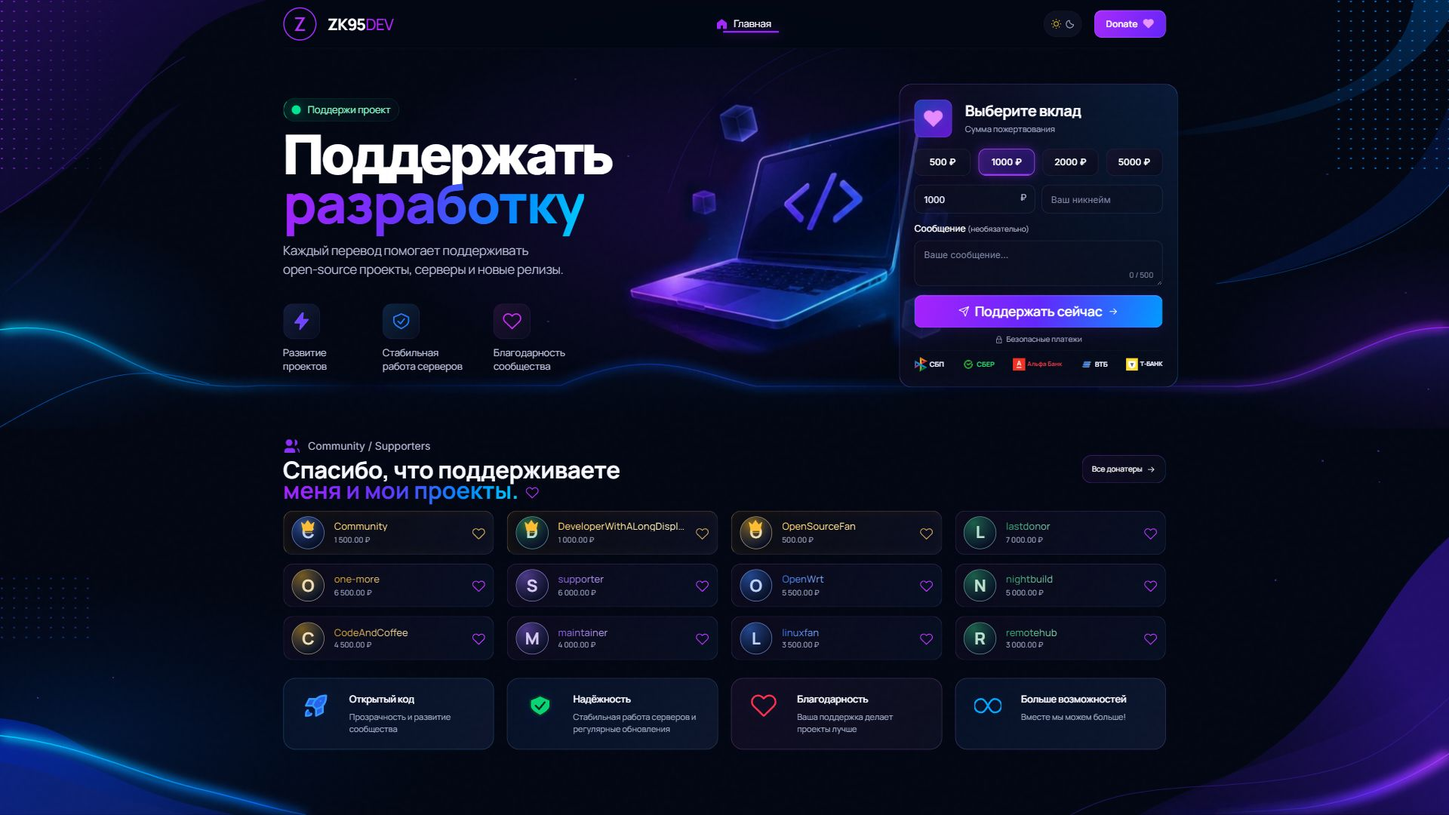
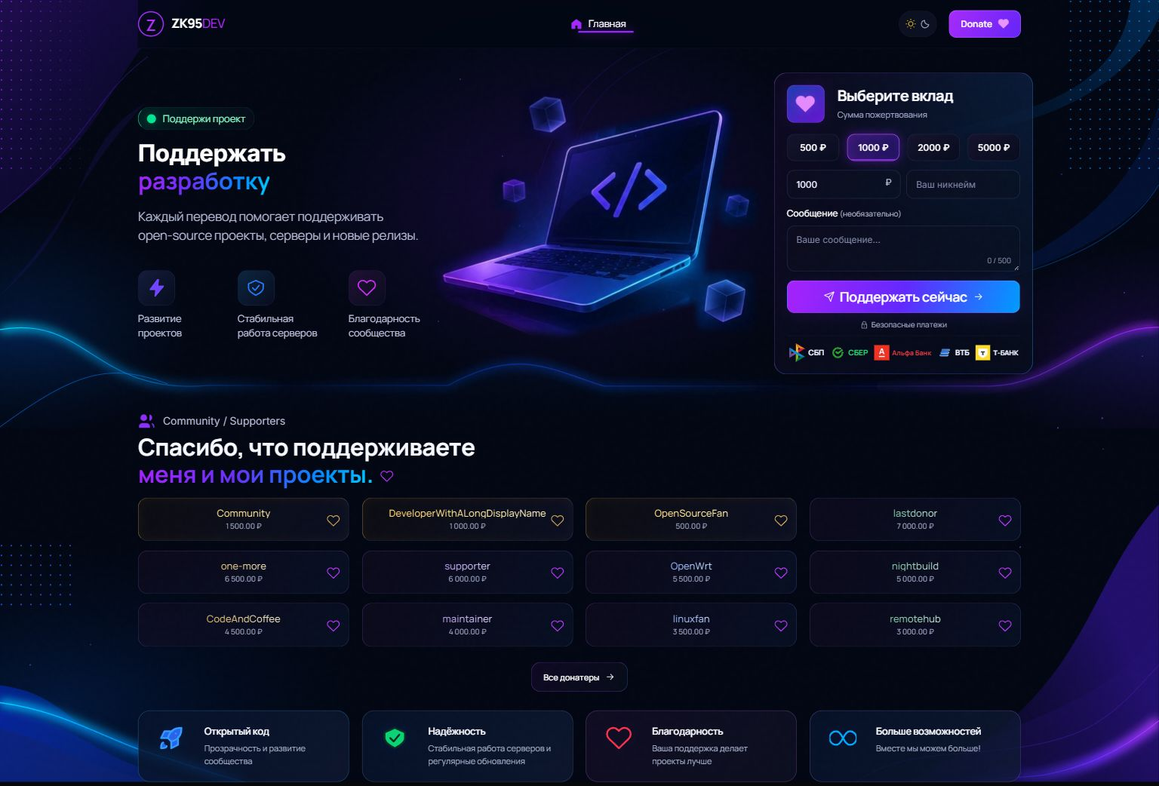
Compact Cyber headings and center expandable donor cards

diff --git a/static/css/cyber.css b/static/css/cyber.css
@@ -10,6 +10,7 @@ body.theme-cyber {
   --gold-bright: #bc72ff;
   --red-soft: #8b35ff16;
   --max: 1170px;
+  --cyber-heading-size: 31px;
   --cyber-gradient: linear-gradient(105deg, #a922ff, #6831fa 42%, #008eff 78%, #00cfff);
   font-family: Inter, Arial, sans-serif;
   font-size: 14px;
@@ -40,8 +41,8 @@ body.theme-cyber {
   transition: box-shadow .25s, background .25s;
 }
 .theme-cyber.is-scrolled .site-header { background: #030817f5; box-shadow: 0 10px 30px #0005; }
-.theme-cyber .brand { gap: 15px; font-size: 21px; font-weight: 700; letter-spacing: -.7px; color: #fff; }
-.theme-cyber .brand-mark { width: 44px; height: 44px; border: 2px solid #a62bff; background: transparent; color: #b52eff; font-size: 25px; font-weight: 600; box-shadow: none; }
+.theme-cyber .brand { gap: 10px; font-size: 17px; font-weight: 700; letter-spacing: -.5px; color: #fff; }
+.theme-cyber .brand-mark { width: 34px; height: 34px; border: 2px solid #a62bff; background: transparent; color: #b52eff; font-size: 21px; font-weight: 600; box-shadow: none; }
 .theme-cyber .brand-muted { color: #b225ff; font-weight: 500; }
 .theme-cyber .brand-period { display: none; }
 .theme-cyber .nav-links { display: flex; justify-content: center; gap: 43px; height: 100%; margin: 0; }
@@ -62,7 +63,7 @@ body.theme-cyber {
 .cyber-intro { position: relative; z-index: 2; width: 460px; max-width: 100%; }
 .cyber-badge { display: inline-flex; align-items: center; gap: 9px; height: 31px; padding: 0 11px; color: #82f8c2; border: 1px solid #18c78323; border-left-color: #00cc8d; border-radius: 18px; background: linear-gradient(110deg, #00ce861c, #0e1b2d30); font-size: 13px; }
 .cyber-badge i { width: 12px; height: 12px; border-radius: 50%; background: #00e491; box-shadow: 0 0 12px #00df8c60; }
-.theme-cyber .cyber-intro h1 { font-family: Inter, Arial, sans-serif; font-size: 72px !important; font-weight: 800; line-height: .88; letter-spacing: -3.5px; margin: 13px 0 17px; color: #fff; }
+.theme-cyber .cyber-intro h1 { font-family: Inter, Arial, sans-serif; font-size: var(--cyber-heading-size) !important; font-weight: 700; line-height: 1.15; letter-spacing: -.3px; margin: 13px 0 17px; color: #fff; }
 .theme-cyber h1 em, .theme-cyber h2 em { color: #9d30ff; background: var(--cyber-gradient); background-clip: text; -webkit-background-clip: text; -webkit-text-fill-color: transparent; font-style: normal; }
 .cyber-lead { color: #b3b8d3; font-size: 17px; font-weight: 400; line-height: 1.45; margin: 0; letter-spacing: -.3px; }
 .cyber-benefits { display: grid; grid-template-columns: 120px 135px 135px; gap: 12px; list-style: none; padding: 0; margin: 34px 0 0; }
@@ -103,10 +104,10 @@ body.theme-cyber {
 .theme-cyber .cyber-donate .cyber-pay:active { transform: scale(.985); }
 .theme-cyber .cyber-donate .cyber-pay.is-loading svg:first-child { animation: cyber-spinner 1s linear infinite; }
 .cyber-secure { display: flex; align-items: center; justify-content: center; gap: 4px; color: #a6acca; font-size: 10px; margin: 8px 0 6px; }
-.cyber-bank-logos { display: flex; justify-content: space-between; align-items: center; gap: 5px; border-top: 1px solid #6383bd14; padding-top: 8px; }
-.cyber-bank-logos>span { display: inline-flex; align-items: center; gap: 3px; white-space: nowrap; font-size: 9px; font-weight: 700; color: #edf0ff; }
+.cyber-bank-logos { display: flex; flex-wrap: wrap; justify-content: center; align-items: center; gap: 8px; border-top: 1px solid #6383bd14; padding-top: 10px; }
+.cyber-bank-logos>span { display: inline-flex; align-items: center; gap: 4px; white-space: nowrap; font-size: 10px; font-weight: 700; color: #edf0ff; }
 .cyber-bank-logos img { object-fit: contain; flex-shrink: 0; }
-.cyber-bank-sber { color: #27d86c !important; }.cyber-bank-alfa { color: #f53942 !important; font-size: 8px !important; }.cyber-bank-tbank { font-size: 8px !important; }
+.cyber-bank-sber { color: #27d86c !important; }.cyber-bank-alfa { color: #f53942 !important; font-size: 9px !important; }.cyber-bank-tbank { font-size: 9px !important; }
 .theme-cyber .cyber-donate .form-status { margin: 0; color: #f2b2e4; font-size: 11px; line-height: 1.6; }
 .theme-cyber .cyber-donate .form-status:not(:empty) { margin-top: 10px; padding: 8px 10px; background: #83194f20; border: 1px solid #c55d9a45; border-radius: 8px; }
 
@@ -115,25 +116,25 @@ body.theme-cyber {
 .theme-cyber .cyber-section-head { display: flex; justify-content: space-between; align-items: center; gap: 20px; margin: 0 0 13px; }
 .theme-cyber .cyber-section-head .eyebrow { display: flex; align-items: center; gap: 10px; color: #b4bad5; font: 400 14px/1.4 Inter, Arial, sans-serif; letter-spacing: 0; text-transform: none; margin: 0 0 5px; }
 .cyber-section-head .eyebrow svg { color: #9531ff; fill: #8c2fff; stroke-width: .9; }
-.theme-cyber .cyber-supporters h2 { font-size: 31px !important; line-height: .9; font-weight: 700; letter-spacing: -.3px; margin: 0; }
+.theme-cyber .cyber-supporters h2 { font-size: var(--cyber-heading-size) !important; line-height: 1.15; font-weight: 700; letter-spacing: -.3px; margin: 0; }
 .cyber-heading-heart { display: inline-flex; vertical-align: middle; color: #ba2dff; margin-left: 3px; }
-.cyber-all-donors { display: inline-flex; align-items: center; justify-content: center; gap: 5px; padding: 10px 13px; min-height: 35px; border: 1px solid #8138c882; border-right-color: #2764a77a; border-radius: 13px; background: linear-gradient(120deg, #1c0c347a, #080d1bc9); color: #fff; font-size: 10px; white-space: nowrap; }
+.theme-cyber .cyber-all-donors { display: inline-flex; align-items: center; justify-content: center; gap: 7px; padding: 10px 16px; min-height: 40px; border: 1px solid #8138c882; border-right-color: #2764a77a; border-radius: 13px; background: linear-gradient(120deg, #1c0c347a, #080d1bc9); color: #fff; font: 500 11px Inter, Arial, sans-serif; white-space: nowrap; cursor: pointer; }
+.theme-cyber .cyber-all-donors:hover { border-color: #ad61ff; background: #231044; }
+.cyber-all-donors svg { transition: transform .2s; }
+.cyber-all-donors[aria-expanded=true] svg { transform: rotate(-90deg); }
 .theme-cyber .cyber-supporters .donor-grid { display: grid; grid-template-columns: repeat(4, minmax(0, 1fr)); gap: 12px 17px; }
-.theme-cyber .cyber-supporters .donor-card { position: relative; display: flex; align-items: center; flex-direction: row; justify-content: flex-start; gap: 13px; min-width: 0; min-height: 58px; padding: 6px 11px; border: 1px solid #71459c66; border-right-color: #465ba269; border-bottom-color: #42497866; border-radius: 13px; background: linear-gradient(120deg, #170c2475, #081126c9); box-shadow: none; animation: none; text-align: left; overflow: visible; transition: transform .2s, border-color .2s, box-shadow .2s; }
+.theme-cyber .cyber-supporters .donor-card { position: relative; display: flex; align-items: center; justify-content: center; min-width: 0; min-height: 58px; padding: 10px 32px; border: 1px solid #71459c66; border-right-color: #465ba269; border-bottom-color: #42497866; border-radius: 13px; background: linear-gradient(120deg, #170c2475, #081126c9); box-shadow: none; animation: none; text-align: center; overflow: visible; transition: transform .2s, border-color .2s, box-shadow .2s; }
 .theme-cyber .cyber-supporters .donor-card:hover { transform: translateY(-2px) scale(1.01); border-color: #a94bffb3; box-shadow: 0 4px 18px #8525ce20; }
-.cyber-donor-avatar { position: relative; width: 43px; height: 43px; display: flex; align-items: center; justify-content: center; flex-shrink: 0; border-radius: 50%; border: 1px solid color-mix(in srgb, var(--donor-accent) 45%, #8e91b5); background: radial-gradient(circle at 30% 20%, color-mix(in srgb, var(--donor-accent) 55%, #101527), #080f24 78%); color: color-mix(in srgb, var(--donor-accent) 30%, #fff); font-size: 22px; font-weight: 700; }
-.cyber-donor-crown { position: absolute; top: -7px; left: 10px; color: #ffc73c; filter: drop-shadow(0 0 4px #ffb40057); }
-.cyber-donor-crown svg { fill: #ffbc34; stroke-width: 1; }
-.cyber-donor-copy { min-width: 0; flex: 1; text-align: left; }
-.theme-cyber .cyber-donor-copy .donor-name { display: block; margin: 0 0 4px; max-width: 100%; overflow: hidden; text-overflow: ellipsis; white-space: nowrap; font-size: 13px; font-weight: 500; line-height: 1.15; animation-duration: 7s; text-align: left; }
-.cyber-donor-details { display: flex; align-items: center; flex-wrap: wrap; gap: 3px; color: #a2aac9; font-size: 10px; line-height: 1.3; }
+.cyber-donor-copy { min-width: 0; width: 100%; text-align: center; }
+.theme-cyber .cyber-donor-copy .donor-name { display: block; margin: 0 0 4px; max-width: 100%; overflow: hidden; text-overflow: ellipsis; white-space: nowrap; font-size: 13px; font-weight: 500; line-height: 1.15; animation-duration: 7s; text-align: center; }
+.cyber-donor-details { display: flex; align-items: center; justify-content: center; flex-wrap: wrap; gap: 3px; color: #a2aac9; font-size: 10px; line-height: 1.3; }
 .cyber-donor-details>span:first-child, .cyber-donor-details time { white-space: nowrap; }
 .cyber-donor-note { display: block; color: #9199b7; font-size: 9px; margin-top: 2px; overflow: hidden; white-space: nowrap; text-overflow: ellipsis; }
-.cyber-donor-heart { margin-left: auto; color: #bd35ff; }
+.cyber-donor-heart { position: absolute; right: 11px; top: 50%; transform: translateY(-50%); color: #bd35ff; }
 .theme-cyber .cyber-supporters .donor-card.is-pinned { border-left-color: #c59a528c; border-top-color: #ab793e73; background: linear-gradient(120deg, #34211338, #0c1024cc); box-shadow: inset 0 0 12px #df9e2010; }
 .theme-cyber .cyber-supporters .donor-card.is-pinned::before, .theme-cyber .cyber-supporters .donor-card.is-pinned::after { display: none; }
 .theme-cyber .cyber-supporters .donor-card.is-pinned .cyber-donor-heart { color: #d1a656; }
-.theme-cyber .cyber-supporters .donor-more-actions { display: none; }
+.theme-cyber .cyber-supporters .donor-more-actions { display: flex; justify-content: center; margin-top: 20px; }
 .theme-cyber .cyber-supporters .empty-state { grid-column: 1 / -1; }
 
 /* Feature strip. */
@@ -165,7 +166,6 @@ body.theme-cyber {
   .theme-cyber .cyber-hero { grid-template-columns: minmax(0, 1fr) 330px; gap: 25px; min-height: 470px; }
   .theme-cyber .cyber-donate { width: 330px; }
   .cyber-intro { width: 390px; align-self: start; padding-top: 18px; }
-  .theme-cyber .cyber-intro h1 { font-size: 58px !important; }
   .cyber-lead { font-size: 14px; max-width: 340px; }.cyber-desktop-break { display: none; }
   .cyber-benefits { grid-template-columns: 1fr 1.15fr 1.2fr; gap: 9px; margin-top: 25px; }.cyber-benefits li { font-size: 11px; }
   .cyber-art { width: 300px; left: calc(100% - 660px); top: 180px; opacity: .55; z-index: 0; }
@@ -173,38 +173,38 @@ body.theme-cyber {
   .theme-cyber .cyber-features { gap: 12px; }.cyber-feature { gap: 10px; padding: 16px 12px; }.cyber-feature-icon { width: 35px; }.cyber-feature h3 { font-size: 12px !important; }.cyber-feature p { font-size: 10px; }
 }
 @media (max-width: 950px) and (min-width: 761px) {
-  .theme-cyber .site-header { grid-template-columns: 170px 1fr 88px; }.theme-cyber .brand { font-size: 18px; gap: 9px; }.theme-cyber .brand-mark { width: 37px; height: 37px; }
+  .theme-cyber .site-header { grid-template-columns: 170px 1fr 88px; }
   .theme-cyber .nav-links { gap: 18px; }.theme-cyber .nav-links a { font-size: 11px; }.cyber-ambient-toggle { display: none; }.cyber-header-donate { padding-inline: 12px; }
-  .theme-cyber .cyber-intro h1 { font-size: 48px !important; letter-spacing: -2px; }.cyber-intro { max-width: 100%; }.cyber-lead { font-size: 13px; }
+  .cyber-intro { max-width: 100%; }.cyber-lead { font-size: 13px; }
   .cyber-benefits { grid-template-columns: 1fr 1fr; gap: 12px; }.cyber-benefits li { flex-direction: row; align-items: center; font-size: 10px; }.cyber-benefits li>span:first-child { width: 35px; height: 35px; }.cyber-benefits li svg { width: 22px; }
   .cyber-art { top: 250px; left: 20px; width: 230px; opacity: .4; }
   .theme-cyber .cyber-features { grid-template-columns: repeat(2, minmax(0, 1fr)); }.cyber-feature h3 { font-size: 13px !important; }.cyber-feature p { font-size: 11px; }
 }
 @media (max-width: 760px) {
+  body.theme-cyber { --cyber-heading-size: clamp(21px, 5.7vw, 30px); }
   .theme-cyber .shell, .theme-cyber .site-header { width: calc(100% - 36px); }
   .theme-cyber::before { background-size: auto 630px; opacity: .7; }.theme-cyber::after { opacity: .7; }
   .theme-cyber .site-header { height: 64px; grid-template-columns: 1fr auto 36px; gap: 12px; }
-  .theme-cyber .brand { font-size: 18px; gap: 10px; letter-spacing: -.6px; }.theme-cyber .brand-mark { width: 36px; height: 36px; font-size: 22px; }
+  .theme-cyber .brand { font-size: 15px; gap: 8px; letter-spacing: -.4px; }.theme-cyber .brand-mark { width: 28px; height: 28px; font-size: 18px; }
   .cyber-header-actions { grid-column: 2; grid-row: 1; }.cyber-ambient-toggle { display: none; }.cyber-header-donate { min-height: 33px; padding: 0 10px; font-size: 11px; border-radius: 9px; }
   .theme-cyber .menu-toggle { grid-column: 3; grid-row: 1; display: flex; align-items: center; justify-content: center; gap: 5px; width: 36px; height: 36px; border: 1px solid #71639b38; border-radius: 9px; }.theme-cyber .menu-toggle span { width: 18px; background: #d0c5ed; }
   .theme-cyber .nav-links { position: absolute; top: calc(100% + 5px); left: 0; right: 0; display: none; height: auto; max-height: calc(100dvh - 90px); overflow-y: auto; align-items: stretch; flex-direction: column; gap: 0; padding: 8px; background: #091024fa; border: 1px solid #7952ae70; border-radius: 12px; box-shadow: 0 18px 40px #0008; }
   .theme-cyber .nav-links.open { display: flex; }.theme-cyber .nav-links a { min-height: 44px; padding: 12px; font-size: 14px; }.theme-cyber .nav-links a::after { display: none; }
   .theme-cyber .cyber-hero { display: flex; flex-direction: column; gap: 0; min-height: 0; padding: 30px 0 20px; align-items: stretch; }
   .cyber-intro { width: 100%; max-width: 480px; margin-inline: auto; text-align: center; }.cyber-badge { height: 29px; font-size: 12px; }.cyber-badge i { width: 9px; height: 9px; }
-  .theme-cyber .cyber-intro h1 { font-size: clamp(42px, 10.8vw, 65px) !important; letter-spacing: -2px; line-height: .96; margin: 18px 0; }
+  .theme-cyber .cyber-intro h1 { margin: 18px 0; }
   .cyber-lead { font-size: 13px; line-height: 1.55; max-width: 400px; margin: auto; }.cyber-desktop-break { display: none; }
   .cyber-benefits { grid-template-columns: repeat(3, minmax(0, 1fr)); gap: 10px; margin-top: 25px; }.cyber-benefits li { align-items: center; font-size: 10px; gap: 7px; }.cyber-benefits li>span:first-child { width: 41px; height: 40px; border-radius: 11px; }.cyber-benefits li svg { width: 23px; height: 23px; }
   .cyber-art { position: relative; left: auto; top: auto; width: min(100%, 390px); margin: -6px auto -13px; }.cyber-art img { max-height: 270px; object-fit: contain; }
   .theme-cyber .cyber-donate { width: 100%; max-width: 430px; padding: 18px; margin: 0 auto; border-radius: 16px; }.theme-cyber .cyber-donate .donate-form-head h2 { font-size: 20px !important; }
   .theme-cyber .cyber-donate input, .theme-cyber .cyber-donate textarea { font-size: 16px; }.theme-cyber .cyber-donate input { height: 42px; }.theme-cyber .cyber-donate .quick-amounts button { min-height: 42px; font-size: 12px; }.theme-cyber .cyber-donate .cyber-pay { min-height: 44px; font-size: 13px; }.theme-cyber .cyber-donate textarea { min-height: 65px; }
-  .cyber-bank-logos { gap: 4px; }.cyber-bank-logos>span { font-size: 8px; }.cyber-bank-alfa, .cyber-bank-tbank { font-size: 7px !important; }.cyber-bank-logos img { width: 14px; height: 17px; }
-  .theme-cyber .cyber-supporters { padding: 15px 0 22px; }.theme-cyber .cyber-section-head { flex-direction: column; align-items: center; text-align: center; gap: 16px; margin-bottom: 17px; }.theme-cyber .cyber-section-head .eyebrow { justify-content: center; font-size: 12px; gap: 7px; }.theme-cyber .cyber-supporters h2 { font-size: clamp(21px, 5.7vw, 30px) !important; letter-spacing: -.7px; line-height: 1.16; }.cyber-heading-heart svg { width: 16px; height: 16px; }.cyber-all-donors { min-height: 40px; font-size: 11px; }
-  .theme-cyber .cyber-supporters .donor-grid { grid-template-columns: repeat(2, minmax(0, 1fr)); gap: 10px; }.theme-cyber .cyber-supporters .donor-card { min-height: 65px; gap: 8px; padding: 8px; border-radius: 11px; }.cyber-donor-avatar { width: 30px; height: 30px; font-size: 16px; }.cyber-donor-crown { left: 4px; }.cyber-donor-crown svg { width: 17px; height: 17px; }.theme-cyber .cyber-donor-copy .donor-name { font-size: 11px; }.cyber-donor-details { font-size: 9px; gap: 2px; }.cyber-donor-details time { font-size: 8px; }.cyber-donor-heart svg { width: 13px; height: 13px; }.cyber-donor-note { font-size: 8px; }
+  .theme-cyber .cyber-supporters { padding: 15px 0 22px; }.theme-cyber .cyber-section-head { flex-direction: column; align-items: center; text-align: center; gap: 16px; margin-bottom: 17px; }.theme-cyber .cyber-section-head .eyebrow { justify-content: center; font-size: 12px; gap: 7px; }.cyber-heading-heart svg { width: 16px; height: 16px; }
+  .theme-cyber .cyber-supporters .donor-grid { grid-template-columns: repeat(2, minmax(0, 1fr)); gap: 10px; }.theme-cyber .cyber-supporters .donor-card { min-height: 65px; padding: 8px 24px; border-radius: 11px; }.theme-cyber .cyber-donor-copy .donor-name { font-size: 11px; }.cyber-donor-details { font-size: 9px; gap: 2px; }.cyber-donor-details time { font-size: 8px; }.cyber-donor-heart { right: 8px; }.cyber-donor-heart svg { width: 13px; height: 13px; }.cyber-donor-note { font-size: 8px; }
   .theme-cyber .cyber-features { grid-template-columns: repeat(2, minmax(0, 1fr)); gap: 10px; }.cyber-feature { gap: 9px; min-height: 108px; padding: 16px 10px; border-radius: 12px; }.cyber-feature-icon { width: 25px; }.cyber-feature-icon svg { width: 25px; height: 25px; }.theme-cyber .cyber-feature h3 { font-size: 11px; line-height: 1.35; margin: 0 0 5px; }.cyber-feature p { font-size: 10px; line-height: 1.5; }
 }
 @media (max-width: 360px) {
-  .theme-cyber .shell, .theme-cyber .site-header { width: calc(100% - 28px); }.theme-cyber .site-header { gap: 8px; }.theme-cyber .brand { font-size: 16px; gap: 8px; }.theme-cyber .brand-mark { width: 32px; height: 32px; font-size: 20px; }.cyber-header-donate { padding-inline: 8px; font-size: 10px; }.cyber-header-donate svg { width: 12px; }
-  .theme-cyber .cyber-donate { padding: 15px; }.theme-cyber .cyber-donate .quick-amounts { gap: 6px; }.theme-cyber .cyber-donate .quick-amounts button { font-size: 11px; }.theme-cyber .cyber-supporters .donor-grid { grid-template-columns: 1fr; }.cyber-donor-avatar { width: 37px; height: 37px; }.theme-cyber .cyber-donor-copy .donor-name { font-size: 12px; }.cyber-donor-details { font-size: 10px; }.theme-cyber .cyber-features { grid-template-columns: 1fr; }.cyber-feature { min-height: 85px; padding: 17px; }.theme-cyber .cyber-feature h3 { font-size: 13px; }.cyber-feature p { font-size: 11px; }
+  .theme-cyber .shell, .theme-cyber .site-header { width: calc(100% - 28px); }.theme-cyber .site-header { gap: 8px; }.theme-cyber .brand { font-size: 14px; gap: 7px; }.theme-cyber .brand-mark { width: 26px; height: 26px; font-size: 17px; }.cyber-header-donate { padding-inline: 8px; font-size: 10px; }.cyber-header-donate svg { width: 12px; }
+  .theme-cyber .cyber-donate { padding: 15px; }.theme-cyber .cyber-donate .quick-amounts { gap: 6px; }.theme-cyber .cyber-donate .quick-amounts button { font-size: 11px; }.theme-cyber .cyber-supporters .donor-grid { grid-template-columns: 1fr; }.theme-cyber .cyber-donor-copy .donor-name { font-size: 12px; }.cyber-donor-details { font-size: 10px; }.theme-cyber .cyber-features { grid-template-columns: 1fr; }.cyber-feature { min-height: 85px; padding: 17px; }.theme-cyber .cyber-feature h3 { font-size: 13px; }.cyber-feature p { font-size: 11px; }
 }
 @media (prefers-reduced-motion: reduce) {
   .theme-cyber *, .theme-cyber *::before, .theme-cyber *::after { animation: none !important; transition: none !important; scroll-behavior: auto !important; }
@@ -220,7 +220,6 @@ body.theme-cyber {
 @media (min-width: 1234px) {
   .theme-cyber .shell, .theme-cyber .site-header { margin-left: calc((100vw - var(--max)) / 2); margin-right: 0; }
   .theme-cyber .cyber-donate { transform: translateX(16px); }
-  .theme-cyber .cyber-intro h1 em { letter-spacing: -2px; }
 }
 @media (min-width: 761px) and (max-width: 1190px) {
   .theme-cyber .cyber-hero { grid-template-rows: auto auto; row-gap: 0; align-items: start; min-height: 0; }

diff --git a/templates/themes/cyber/donate.html b/templates/themes/cyber/donate.html
@@ -30,18 +30,17 @@
     <button class="button cyber-pay" type="submit"{% if payment_error %} disabled{% endif %}>{{ icon('send',15) }}<span>Поддержать сейчас</span>{{ icon('arrow',15) }}</button>
     <div class="cyber-secure">{{ icon('lock',11) }} Безопасные платежи</div>
     <div class="cyber-bank-logos" aria-label="Оплата через СБП в ЮKassa. Банки — участники СБП">
-      <span class="cyber-sbp-logo"><img src="{{ url_for('static', filename='img/sbp-logo.svg') }}" width="17" height="20" alt="">СБП</span>
-      {% for slug,label in [('sber','СБЕР'),('alfa','Альфа Банк'),('vtb','ВТБ'),('tbank','Т-БАНК')] %}<span class="cyber-bank-logo cyber-bank-{{ slug }}" title="{{ label }} — банк — участник СБП"><img src="{{ url_for('static', filename='img/banks/' ~ slug ~ '.webp') }}" width="16" height="16" alt="">{{ label }}</span>{% endfor %}
+      <span class="cyber-sbp-logo"><img src="{{ url_for('static', filename='img/sbp-logo.svg') }}" width="22" height="24" alt="">СБП</span>
+      {% for slug,label in [('sber','СБЕР'),('alfa','Альфа Банк'),('vtb','ВТБ'),('tbank','Т-БАНК')] %}<span class="cyber-bank-logo cyber-bank-{{ slug }}" title="{{ label }} — банк — участник СБП"><img src="{{ url_for('static', filename='img/banks/' ~ slug ~ '.webp') }}" width="20" height="20" alt="">{{ label }}</span>{% endfor %}
     </div>
     <div class="form-status" role="status" aria-live="polite">{{ payment_error or '' }}</div>
   </form>
 </section>
 <section class="donor-wall cyber-supporters shell" aria-labelledby="donors-title" id="supporters">
-  <div class="section-head cyber-section-head"><div><p class="eyebrow">{{ icon('users',23) }} Community / Supporters</p><h2 id="donors-title">Спасибо, что поддерживаете<br><em>меня и мои проекты.</em> <span class="cyber-heading-heart">{{ icon('heart',18) }}</span></h2></div>{% if donors|length > 12 %}<a class="cyber-all-donors" href="#donor-list" data-show-all-donors aria-controls="donor-list" aria-expanded="false">Все донатеры {{ icon('arrow',13) }}</a>{% endif %}</div>
+  <div class="section-head cyber-section-head"><div><p class="eyebrow">{{ icon('users',23) }} Community / Supporters</p><h2 id="donors-title">Спасибо, что поддерживаете<br><em>меня и мои проекты.</em> <span class="cyber-heading-heart">{{ icon('heart',18) }}</span></h2></div></div>
   <div class="donor-grid" id="donor-list">
     {% for donor in donors %}
     <article{% if loop.index > 12 %} hidden data-extra-donor{% endif %} class="donor-card donor-{{ donor.color }}{% if donor.pinned %} is-pinned{% endif %}" style="--donor-accent: {{ donor_color(donor.color) }}"{% if donor.pinned %} data-pinned="true"{% endif %}>
-      <span class="cyber-donor-avatar" aria-hidden="true">{{ donor.nickname[:1]|upper }}{% if donor.pinned %}<span class="cyber-donor-crown">{{ icon('crown',20) }}</span>{% endif %}</span>
       <div class="cyber-donor-copy">
         {% if donor.social_url %}<a class="donor-name" href="{{ donor.social_url }}" target="_blank" rel="noopener noreferrer nofollow">{{ donor.nickname }}</a>{% else %}<strong class="donor-name">{{ donor.nickname }}</strong>{% endif %}
         <div class="cyber-donor-details"><span>{{ '{:,.2f}'.format(donor.total_amount|float).replace(',', ' ') }} ₽</span>{% if donor.last_donated_at %}<span aria-hidden="true">·</span><time datetime="{{ donor.last_donated_at }}">{{ donor.last_donated_at[:10].split('-')|reverse|join('.') }}</time>{% endif %}</div>
@@ -51,7 +50,7 @@
     </article>
     {% else %}<div class="empty-state">Здесь появятся ваши донатеры. Спасибо за поддержку!</div>{% endfor %}
   </div>
-  {% if donors|length > 12 %}<div class="donor-more-actions"><button class="button button-ghost donor-show-all" type="button" aria-controls="donor-list" aria-expanded="false">Показать всех {{ icon('arrow',14) }}</button></div><noscript><style>.donor-grid .donor-card[hidden]{display:flex!important}.donor-more-actions{display:none}</style></noscript>{% endif %}
+  {% if donors|length > 12 %}<div class="donor-more-actions"><button class="cyber-all-donors donor-show-all" type="button" data-show-all-donors data-donor-toggle aria-controls="donor-list" aria-expanded="false"><span data-donor-toggle-label>Все донатеры</span>{{ icon('arrow',14) }}</button></div><noscript><style>.donor-grid .donor-card[hidden]{display:flex!important}.donor-more-actions{display:none!important}</style></noscript>{% endif %}
 </section>
 <section class="cyber-features shell" id="features" aria-label="Что даёт ваша поддержка">
   {% for symbol,title,description in [('rocket','Открытый код','Прозрачность и развитие сообщества'),('shield','Надёжность','Стабильная работа серверов и регулярные обновления'),('heart','Благодарность','Ваша поддержка делает проекты лучше'),('infinity','Больше возможностей','Вместе мы можем больше!')] %}

diff --git a/templates/admin/base.html b/templates/admin/base.html
@@ -1,2 +1,2 @@
 <!doctype html>
-<html lang="ru"><head><meta charset="utf-8"><meta name="viewport" content="width=device-width, initial-scale=1"><meta name="theme-color" content="#07080a"><link rel="icon" type="image/svg+xml" href="{{ url_for('static', filename='favicon.svg') }}"><link rel="manifest" href="{{ url_for('static', filename='manifest.webmanifest') }}"><link rel="apple-touch-icon" sizes="180x180" href="{{ url_for('static', filename='apple-touch-icon.png') }}"><meta name="apple-mobile-web-app-capable" content="yes"><meta name="apple-mobile-web-app-status-bar-style" content="black-translucent"><title>{% block title %}Admin — ZKS95{% endblock %}</title><link rel="stylesheet" href="{{ url_for('static', filename='css/style.css') }}">{% if site_theme == 'cyber' %}<link rel="stylesheet" href="{{ url_for('static', filename='css/cyber.css', v='fullwidth-3') }}"><link rel="stylesheet" href="{{ url_for('static', filename='css/cyber-shared.css', v='1') }}">{% endif %}{% block head %}{% endblock %}</head><body class="admin-body theme-{{ site_theme }} visual-effect-{{ visual_effect }} visual-speed-{{ visual_speed }}"><div class="visual-layer" aria-hidden="true"></div><header class="admin-header"><a class="brand" href="{{ url_for('admin.dashboard') }}"><span class="brand-mark">Z</span><span>ZKS95<span class="brand-muted">/ADMIN</span></span></a>{% if admin_username %}<nav class="admin-nav"><a href="{{ url_for('admin.dashboard') }}">Обзор</a><a href="{{ url_for('admin.payments') }}">Платежи</a><a href="{{ url_for('admin.donors') }}">Донатеры</a><a href="{{ url_for('admin.notifications') }}">Уведомления</a><a href="{{ url_for('admin.settings') }}">Настройки</a><a href="{{ url_for('admin.account') }}">Аккаунт</a><form method="post" action="{{ url_for('admin.logout') }}"><input type="hidden" name="csrf_token" value="{{ csrf_token() }}"><button>Выйти</button></form></nav>{% endif %}</header><main class="admin-main">{% with messages=get_flashed_messages(with_categories=true) %}{% for category,message in messages %}<div class="flash flash-{{ category }}">{{ message }}</div>{% endfor %}{% endwith %}{% block content %}{% endblock %}</main>{% block scripts %}{% endblock %}</body></html>
+<html lang="ru"><head><meta charset="utf-8"><meta name="viewport" content="width=device-width, initial-scale=1"><meta name="theme-color" content="#07080a"><link rel="icon" type="image/svg+xml" href="{{ url_for('static', filename='favicon.svg') }}"><link rel="manifest" href="{{ url_for('static', filename='manifest.webmanifest') }}"><link rel="apple-touch-icon" sizes="180x180" href="{{ url_for('static', filename='apple-touch-icon.png') }}"><meta name="apple-mobile-web-app-capable" content="yes"><meta name="apple-mobile-web-app-status-bar-style" content="black-translucent"><title>{% block title %}Admin — ZKS95{% endblock %}</title><link rel="stylesheet" href="{{ url_for('static', filename='css/style.css') }}">{% if site_theme == 'cyber' %}<link rel="stylesheet" href="{{ url_for('static', filename='css/cyber.css', v='compact-4') }}"><link rel="stylesheet" href="{{ url_for('static', filename='css/cyber-shared.css', v='1') }}">{% endif %}{% block head %}{% endblock %}</head><body class="admin-body theme-{{ site_theme }} visual-effect-{{ visual_effect }} visual-speed-{{ visual_speed }}"><div class="visual-layer" aria-hidden="true"></div><header class="admin-header"><a class="brand" href="{{ url_for('admin.dashboard') }}"><span class="brand-mark">Z</span><span>ZKS95<span class="brand-muted">/ADMIN</span></span></a>{% if admin_username %}<nav class="admin-nav"><a href="{{ url_for('admin.dashboard') }}">Обзор</a><a href="{{ url_for('admin.payments') }}">Платежи</a><a href="{{ url_for('admin.donors') }}">Донатеры</a><a href="{{ url_for('admin.notifications') }}">Уведомления</a><a href="{{ url_for('admin.settings') }}">Настройки</a><a href="{{ url_for('admin.account') }}">Аккаунт</a><form method="post" action="{{ url_for('admin.logout') }}"><input type="hidden" name="csrf_token" value="{{ csrf_token() }}"><button>Выйти</button></form></nav>{% endif %}</header><main class="admin-main">{% with messages=get_flashed_messages(with_categories=true) %}{% for category,message in messages %}<div class="flash flash-{{ category }}">{{ message }}</div>{% endfor %}{% endwith %}{% block content %}{% endblock %}</main>{% block scripts %}{% endblock %}</body></html>

diff --git a/templates/base.html b/templates/base.html
@@ -19,7 +19,7 @@
   <link rel="preconnect" href="https://fonts.gstatic.com" crossorigin>
   <link href="https://fonts.googleapis.com/css2?family=DM+Mono:wght@400;500&family=Manrope:wght@400;500;600;700;800{% if site_theme == 'cyber' %}&family=Inter:wght@400;500;600;700;800;900{% endif %}&display=swap" rel="stylesheet">
   <link rel="stylesheet" href="{{ url_for('static', filename='css/style.css') }}">
-  {% if site_theme == 'cyber' %}<link rel="stylesheet" href="{{ url_for('static', filename='css/cyber.css', v='fullwidth-3') }}"><link rel="stylesheet" href="{{ url_for('static', filename='css/cyber-shared.css', v='1') }}">{% endif %}
+  {% if site_theme == 'cyber' %}<link rel="stylesheet" href="{{ url_for('static', filename='css/cyber.css', v='compact-4') }}"><link rel="stylesheet" href="{{ url_for('static', filename='css/cyber-shared.css', v='1') }}">{% endif %}
   {% block head %}{% endblock %}
 </head>
 <body class="theme-{{ site_theme }} visual-effect-{{ visual_effect }} visual-speed-{{ visual_speed }}">
@@ -38,7 +38,7 @@
   </header>
   {% endif %}
   <main>{% block content %}{% endblock %}</main>
-  <script src="{{ url_for('static', filename='js/app.js', v='themes-1') }}" defer></script>
+  <script src="{{ url_for('static', filename='js/app.js', v='donor-toggle-2') }}" defer></script>
   {% if site_theme == 'cyber' %}<script src="{{ url_for('static', filename='js/cyber.js', v='reference-2') }}" defer></script>{% endif %}
   {% block scripts %}{% endblock %}
 </body>

diff --git a/static/js/app.js b/static/js/app.js
@@ -44,6 +44,13 @@ document.addEventListener('DOMContentLoaded', () => {
     showAllDonors.addEventListener('click', event => {
       event.preventDefault();
       const extraDonors = document.querySelectorAll('#donor-list [data-extra-donor]');
+      if (showAllDonors.hasAttribute('data-donor-toggle')) {
+        const expanded = showAllDonors.getAttribute('aria-expanded') !== 'true';
+        extraDonors.forEach(card => { card.hidden = !expanded; });
+        showAllDonors.setAttribute('aria-expanded', String(expanded));
+        showAllDonors.querySelector('[data-donor-toggle-label]').textContent = expanded ? 'Свернуть список' : 'Все донатеры';
+        return;
+      }
       extraDonors.forEach(card => { card.hidden = false; });
       donorTriggers.forEach(trigger => {
         trigger.setAttribute('aria-expanded', 'true');

diff --git a/docs/CYBER-REFERENCE.md b/docs/CYBER-REFERENCE.md
@@ -5,10 +5,10 @@
 ## Реализация
 
 - Шапка высотой 64 px с логотипом, навигацией, кнопкой Donate и переключателем спокойного оформления.
-- Двухстрочный заголовок с фиолетово-синим градиентом, три преимущества и ноутбук в центре.
+- Двухстрочный заголовок с фиолетово-синим градиентом, три преимущества и ноутбук в центре. По последующему запросу владельца размер заголовка совпадает с заголовком донатеров на ПК и телефонах; логотип уменьшен.
 - Компактная платёжная форма с теми же суммой, никнеймом и сообщением. Никнейм сохранён рядом с произвольной суммой. Ограничение сообщения остаётся 500 символов.
-- Четыре колонки донатеров на компьютере, три на планшетах, одна или две на телефонах. Первые 12 видны сразу, остальные раскрываются кнопкой.
-- Вместо фотографий чужих людей из макета используются инициалы реальных донатеров. Имена, суммы, даты, ссылки и закрепление берутся из существующей базы. Для закреплённых добавлены корона и золотой акцент.
+- Четыре колонки донатеров на компьютере, три на планшетах, одна или две на телефонах. Первые 12 видны сразу, кнопка по центру под списком раскрывает остальные и сворачивает их обратно.
+- Аватарки убраны по запросу владельца; весь текст карточек выровнен по центру. Имена, суммы, даты, ссылки и закрепление берутся из существующей базы. Для закреплённых сохранены золотые акценты.
 - Секция возможностей повторяет горизонтальные карточки референса. Публичный футер и пункты меню «Возможности», «Поддержка», «Контакты» убраны по последующему запросу владельца.
 - SVG-волны, световые дуги и точки масштабируются отдельно от контента. Фон растягивается на всю ширину окна и привязан к высоте всей страницы. Мобильная версия перестраивается вертикально.
 - Переключатель солнца/луны уменьшает свечение и отключает движение ноутбука. Выбор хранится только на текущем устройстве; глобальную тему посетитель не меняет. Системное `prefers-reduced-motion` также учитывается.

diff --git a/docs/THEMES.md b/docs/THEMES.md
@@ -19,7 +19,7 @@ Red / Black сохраняет существующую вёрстку. У Premi
 
 В Premium Cyber стандартные быстрые суммы — 500, 1000, 2000 и 5000 ₽. Если администратор изменил минимальную или максимальную сумму, варианты подстраиваются под разрешённый диапазон. Можно ввести другую сумму внутри этого диапазона. Никнейм, сообщение и сумма поступают в прежний `/api/payments`.
 
-Отображаются реальные записи донатеров; первые 12 раскрываются сразу, остальные — кнопками «Все донатеры» или «Показать всех». Закреплённые записи получают золотой VIP-акцент. Дата показывается только при наличии в базе. Загрузка личных аватаров в текущей модели данных отсутствует: вместо чужих фотографий используются декоративные инициалы.
+Отображаются реальные записи донатеров; первые 12 раскрываются сразу. В Premium Cyber кнопка «Все донатеры» под списком раскрывает остальные записи и меняется на «Свернуть список», чтобы снова оставить первые 12. Карточки без аватарок: никнейм, сумма, дата и подпись выровнены по центру. Закреплённые записи получают золотой VIP-акцент. Дата показывается только при наличии в базе.
 
 Сейчас создание платежа использует `payment_method_data.type=sbp`. В интерфейсе показан настоящий знак СБП и название ЮKassa. Под кнопкой показаны официальные значки банков — участников СБП. Это информационная строка; она не создаёт отдельных способов оплаты.
 

diff --git a/docs/THEME-VALIDATION.md b/docs/THEME-VALIDATION.md
@@ -69,3 +69,7 @@
 ## Последующая корректировка фона и навигации
 
 По запросу владельца убраны публичный футер и пункты меню «Возможности», «Поддержка», «Контакты». Исправлено растягивание SVG-декораций на всю ширину окна и привязка к полной высоте страницы. Повторно проверены 1920 px и 390 px, отсутствие горизонтального переполнения и мобильное меню. Скриншоты обновлены; 15 тестов `tests/test_site_themes.py` проходят.
+
+## Компактные заголовки и карточки донатеров
+
+Заголовки первого экрана и донатеров используют общий размер: 31 px на ПК, одинаковое адаптивное значение на телефоне. Логотип уменьшен, значки СБП и банков увеличены. Аватарки убраны, текст карточек расположен по центру. Кнопка под списком проверена на раскрытие и сворачивание: 12 → 14 → 12 тестовых записей на ПК и телефоне. Проверены ширины 320, 390, 768, 1536 и 1920 px без переполнения страницы и строки банков; скриншоты обновлены. Синтаксис JavaScript и 15 тестов тем проходят.
